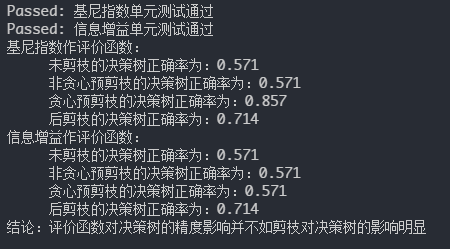
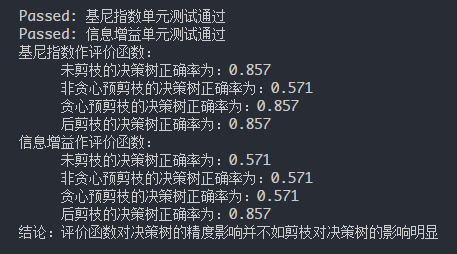
adaboost

Changed region(s): [[0.0, 0.0, 0.9644, 0.9558]]

diff --git a/DecisionTree_py/decisionTree.py b/DecisionTree_py/decisionTree.py
@@ -3,48 +3,68 @@
 import sys
 from os import path
 sys.path.append( path.dirname( path.dirname( path.abspath(__file__) ) ) )
-from dataSet.watermelon_2 import wm_attridict,wm_dataset,wm_trainningset,wm_validationset,wm_dataset
+from dataSet.watermelon_2 import wm_attridict, wm_dataset, wm_trainningset, wm_validationset,wm_dataset, wm_picker, wm_counter
 import numpy as np
 from copy import deepcopy
-from functools import reduce,partial
+from functools import reduce, partial
 from mymodules.myclass import Tree
-wm_attriset = [x for x in wm_attridict]
-def rate_category_func(D,value): #计算正反例的概率
-    def func(D,value):#即Pk
-        if not D:return 0
-        L = list(np.array(D).T[wm_attridict[u'好坏']])
-        return L.count(value)/L.__len__()
-    if D == wm_dataset:return [0,0.47058,0.52942,0][value]
-    else:return func(D,value) 
 
-def filtrate_func(D,attri,value): #提取某一属性的数据集
-    return list(filter(lambda unit:unit[wm_attridict[attri]] == value,D))
+wm_attriset = [x for x in wm_attridict if x != '编号']
+def rate_category_func(dataset, label):
+    '''
+        计算正例和反例的频率
+    '''
+    def func(dataset, label):#即Pk
+        tempdataset = wm_picker(dataset, label=label)
+        if not dataset:
+            return 0
+        return wm_counter(tempdataset) / wm_counter(dataset)
+    if dataset == wm_dataset:return [0.47058,0.52942][int(label)]
+    else:return func(dataset, label) 
+
+def filtrate_func(dataset, attri, value): #提取某一属性的数据集
+    '''
+            提取某一属性的数据集
+    '''
+    return wm_picker(dataset, **{attri:[value]})
 
 def infomation_gain(D,attri):
-    #组合起来的信息增益
-
-    def Ent(Pk):#信息熵
-        def func(D):    
-            def unit(i):
-                temp = Pk(D,i)
-                if temp != 0:
-                    return temp * np.log2(temp).sum()
-                else:
+    '''
+        组合起来的信息增益
+    '''
+    def Ent(Pk):
+        '''
+        单一属性的信息熵
+        '''
+        def func(dataset):    
+            def logarithm_func(result):
+                '''
+                    pk * log(pk) pk为0时需要定义为0 
+                '''
+                if result == 0:
                     return 0
-            return -(unit(2)+unit(1)+unit(3))
+                else:
+                    return result * np.log2(result).sum()
+            return -(logarithm_func(Pk(dataset, 0.0))+logarithm_func(Pk(dataset, 1.0)))
         return func
 
-    def sum_unit(Ent,Dv): #求和单元
+    def sum_unit(Ent,Dv): 
+        '''
+        求和单元
+        '''
+        def func(dataset, attri):
+            return lambda value:wm_counter(Dv(dataset, attri, value)) * Ent(Dv(dataset, attri, value))
+        return func
+
+    def Gain(Ent,filtrate_func): 
+        '''
+        信息增益
+        '''
         def func(D,attri):
-            return lambda value:Dv(D,attri,value).__len__() * Ent(Dv(D,attri,value))
+            return Ent(D) - sum(map(sum_unit(Ent,filtrate_func)(D,attri),[1, 2, 3]))/wm_counter(D)
         return func
 
-    def Gain(Ent,filtrate_func): #信息增益
-        def func(D,attri):
-            return Ent(D) - sum(map(sum_unit(Ent,filtrate_func)(D,attri),[1,2,3]))/list(D).__len__()
-        return func
-
-    return Gain(Ent(rate_category_func),filtrate_func)(D,attri)
+    return Gain(Ent(rate_category_func), filtrate_func)(D, attri)
 
 def test_infomation_gain(wm_dataset,wm_attriset):
     ans = [None,0.109,0.143,0.141,0.381,0.289,0.006]
@@ -61,6 +81,8 @@ def test_infomation_gain(wm_dataset,wm_attriset):
 def test_Giniattri(D,wm_attriset):#测试基尼指数计算是否错误
     ans = [None,0.35,0.44,0.40,0.40,0.35,0.50]
     for attri in wm_attriset:
+        if attri in [u"好坏", u'编号']:
+            continue
         temp = Gini_index(D,attri)
         if abs(temp-ans[wm_attridict[attri]])<0.01:pass
         else:
@@ -69,13 +91,19 @@ def test_Giniattri(D,wm_attriset):#测试基尼指数计算是否错误
     print("Passed: 基尼指数单元测试通过")
     return True
 
-def Gini_index(D,attri): #属性a的Gini系数,希望以后看这段代码的时候不会凉凉
-    def Gini(pk): #基尼指数，反应了随机从样本中抽取两个样本其标记不同的概率
-        return lambda D:1 - pk(D,2)**2 - pk(D,1)**2
+def Gini_index(D,attri): 
+    '''
+        属性a的Gini系数,希望以后看这段代码的时候不会凉凉
+    '''
+    def Gini(pk):
+        '''
+            基尼指数，反应了随机从样本中抽取两个样本其标记不同的概率
+        '''
+        return lambda D:1 - pk(D, 1.0)**2 - pk(D, 0.0)**2
 
     def Gini_part(Gini,filtrate_func): 
         def func(D,attri):
-            return  sum(map(lambda value:filtrate_func(D,attri,value).__len__()*Gini(rate_category_func)(filtrate_func(D,attri,value)),[1,2,3]))/ D.__len__()
+            return  sum(map(lambda value:wm_counter(filtrate_func(D,attri,value))*Gini(rate_category_func)(filtrate_func(D,attri,value)),[1.0, 2.0, 3.0]))/ wm_counter(D)
         return func
     return Gini_part(Gini,filtrate_func)(D,attri)
 
@@ -187,10 +215,10 @@ def accuracy_fun(Tree,wm_validationset):
         if subtree.isLeaf:
             return subtree.attri
         else:
-            return travel(subtree[unit[wm_attridict[subtree.attri]]],unit)#根据数据集中的值遍历
+            return travel(subtree[int(unit[wm_attridict[subtree.attri]])],unit)#根据数据集中的值遍历
     
-    compurefunc = lambda unit:[u'错误',u'好瓜',u'坏瓜'].index(travel(Tree,unit)) == unit[wm_attridict[u'好坏']]
-    return sum(map(compurefunc,wm_validationset)) / wm_validationset.__len__()
+    compurefunc = lambda unit1, label:[u'坏瓜', u'好瓜', u'错误'].index(travel(Tree,unit1)) == label
+    return sum(map(compurefunc, *wm_validationset)) / wm_counter(wm_validationset)
 
 def main():
     test_Giniattri(wm_trainningset,wm_attriset)

diff --git a/dataSet/watermelon_2.py b/dataSet/watermelon_2.py
@@ -45,7 +45,10 @@ def wm_picker(dataset, **kw):
             if attri == 'label':
                 return vector[1] == kw[attri]
             else:
-                return vector[0][wm_attridict[attri]] in kw[attri]
+                if attri in wm_attridict:
+                    return vector[0][wm_attridict[attri]] in kw[attri]
+                else:
+                    raise RuntimeError("attribute is not in the dict！")
         return reduce(lambda x, y:x and y,map(func, kw))
     
     return tuple(zip(*filter(decision_func, zip(*dataset))))

diff --git a/Ensemble_Learning/AdaBoost.py b/Ensemble_Learning/AdaBoost.py
@@ -1,0 +1,8 @@
+#encoding:utf-8
+'''
+    AdaBoost算法，配合决策树桩
+'''
+import sys
+from os import path
+sys.path.append(path.dirname(path.dirname( path.dirname( path.abspath(__file__) ) ) ))
+from watermelon_3alpha import *
